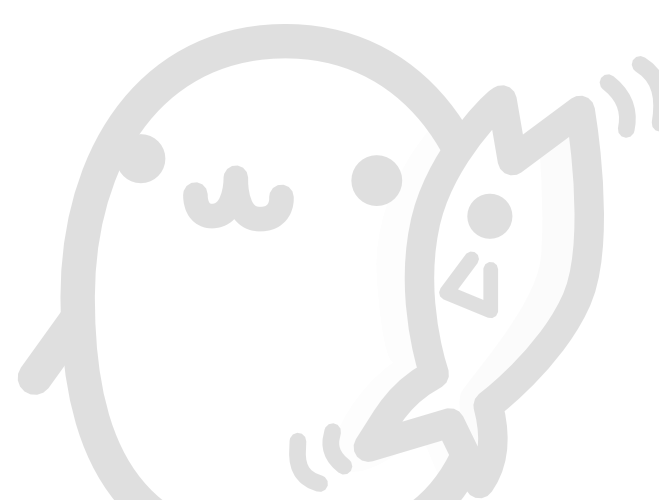
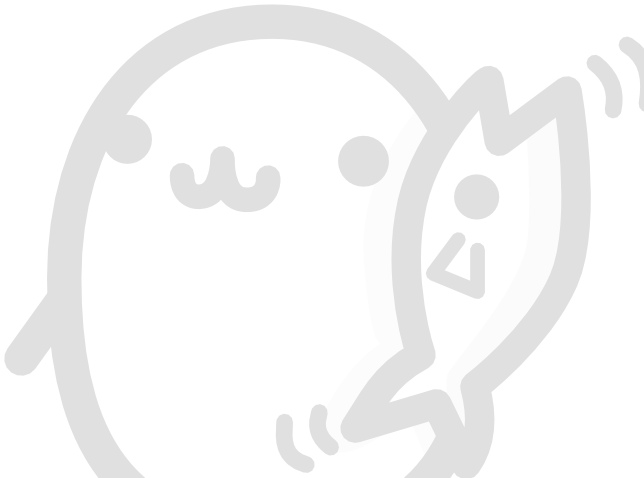
indexページにクマ投入。ポスト内のリストの画像も修正

diff --git a/css/main.css b/css/main.css
@@ -1,18 +1,11 @@
 body, h1, h2, p, div, pre, ul { margin: 0; padding: 0; }
-body {
-    background: #fff url(/img/back.png) no-repeat bottom right fixed;
-    text-align: center;
-}
+body { background: #fff url(/img/back.png) no-repeat bottom right fixed; text-align: center; }
 a:link { color: #04c; }
 a:hover { color: #37f; }
 code { background: #222; color: #fff; padding: 0 2px; }
 
-
-#wrapper {
-    width: 55%;
-    text-align: left;
-    margin: 20px auto 0 auto;
-}
+/* =wrapper */
+#wrapper { width: 55%; text-align: left; margin: 20px auto 0 auto; }
 
 /* =header */
 #header { margin-bottom: 30px; }
@@ -33,6 +26,7 @@ code { background: #222; color: #fff; padding: 0 2px; }
 #aboutme { margin: 20px 0; font-size: 0.8em; color: #444; }
 #aboutme .keyword { color: #87c530; }
 #aboutme p.indent { text-indent: 10px; }
+#aboutme .bear { background: transparent url(/img/bear.png) no-repeat right 50%; padding-right: 17px; }
 
 /* =post */
 #post { font-size: 0.9em; width: 90%; margin-bottom: 30px; }
@@ -42,24 +36,14 @@ code { background: #222; color: #fff; padding: 0 2px; }
 #post h2 { color: #87c530; }
 #post h3 { background: transparent url(/img/h3.png) no-repeat left 50%; padding-left: 12px; }
 #post p { margin-bottom: 1em; }
-#post ul { list-style: disc; margin-left: 1.5em; }
-#post ul li { text-indent: 0; }
+#post ul { margin-left: 0.5em; }
+#post ul li { background: transparent url(/img/li.png) no-repeat left 50%; padding-left: 17px; text-indent: 0; }
 #post blockquote { font-style: italic; font-size: 130%; }
 #tweet { margin-bottom: 20px; }
 
 /* =toc */
-ul#toc {
-    position: absolute;
-    margin-top: 10%;
-    right: 10%;
-
-    list-style: none;
-}
-ul#toc li {
-    color: #777;
-    font-size: 0.9em;
-    margin-bottom: 0.5em;
-}
+ul#toc { position: absolute; margin-top: 10%; right: 10%; list-style: none; }
+ul#toc li { font-size: 0.9em; margin-bottom: 0.5em; }
 
 /* =bottom_menu */
 ul#bottom_menu { text-align: right; list-style: none; margin: 15px 0; }

diff --git a/js/main.js b/js/main.js
@@ -39,21 +39,41 @@
         });
     }; // }}}
 
+    /* =wink {{{
+    var changeBackgroundUrl = function(url){
+        $("body").css("background-image", "url(" + url + ")");
+    };
+
+    var wink = function(){
+        changeBackgroundUrl("/img/back2.png");
+        setTimeout(function(){
+            changeBackgroundUrl("/img/back.png");
+        }, 100)
+    };
+
+    var getRandomSec = function(){
+        return Math.floor(Math.random() * 10) * 1000;
+    };
+
+    var setWinkTimeout = function(sec){
+        var timeoutSec = sec || getRandomSec();
+
+        setTimeout(function(){
+            wink();
+            setWinkTimeout(getRandomSec());
+        }, timeoutSec);
+    };
+    }}} */
+
     $(function(){
-        // 目次の作成
-        makeTableOfContents({ header: "#post h2", min: 3 })
-            //.insertAfter($("#post p.meta"));
-            .insertAfter($("#header"));
+       // 目次の作成
+       makeTableOfContents({ header: "#post h2", min: 3 })
+           .insertAfter($("#header"));
+       $("#toc").containedStickyScroll({
+           unstick: false
+       });
 
-        $("#toc").containedStickyScroll({
-            unstick: false
-        });
-
-
-//.containedStickyScroll();
-
-
-        applySmoothScroll();
+       applySmoothScroll();
     });
 
 }(this));

diff --git a/_layouts/default.html b/_layouts/default.html
@@ -26,17 +26,15 @@
 
         <div id="footer">
             <ul>
-                <li><a href="http://twitter.com/uochan">Twitter</a></li>
-                <li><a href="http://www.facebook.com/masashi.iizuka">Facebook</a></li>
-                <li><a href="https://github.com/liquidz">GitHub</a></li>
-                <li><a href="http://coderwall.com/liquidz">coderwall</a></li>
-                <li><a href="http://clojars.org/users/liquidz">Clojars</a></li>
-                <li><a href="https://market.android.com/developer?pub=uochan">Android Market</a></li>
+                <li><a class="twitter" href="http://twitter.com/uochan">Twitter</a></li>
+                <li><a class="facebook" href="http://www.facebook.com/masashi.iizuka">Facebook</a></li>
+                <li><a class="github" href="https://github.com/liquidz">GitHub</a></li>
+                <li><a class="coderwall" href="http://coderwall.com/liquidz">coderwall</a></li>
+                <li><a class="clojars" href="http://clojars.org/users/liquidz">Clojars</a></li>
+                <li><a class="android" href="https://market.android.com/developer?pub=uochan">Android Market</a></li>
             </ul>
         </div>
-
     </div>
-
 </body>
 </html>
 

diff --git a/index.html b/index.html
@@ -30,6 +30,6 @@ title: (code "liquidz.uo")
 <div id="aboutme">
     <p>(<span class="keyword">identity</span></p>
     <p class="indent">:name "@uochan"</p>
-    <p class="indent">:desc "プログラミングと紅茶とニコ動と読書が好き。リラックマとダッフィーくんも好き。クマの人。Vimmer兼Clojurian")</p>
+    <p class="indent">:desc "プログラミングと紅茶とニコ動と読書が好き。リラックマとダッフィーくんも好き。<span class="bear">クマの人</span>。Vimmer兼Clojurian")</p>
 </div>
 

diff --git a/_layouts/post.html b/_layouts/post.html
@@ -34,4 +34,3 @@ layout: default
 <script type="text/javascript" src="/js/jquery-1.7.1.min.js"></script>
 <script type="text/javascript" src="/js/jquery-contained-sticky-scroll-min.js"></script>
 <script type="text/javascript" src="/js/main.js"></script>
-
